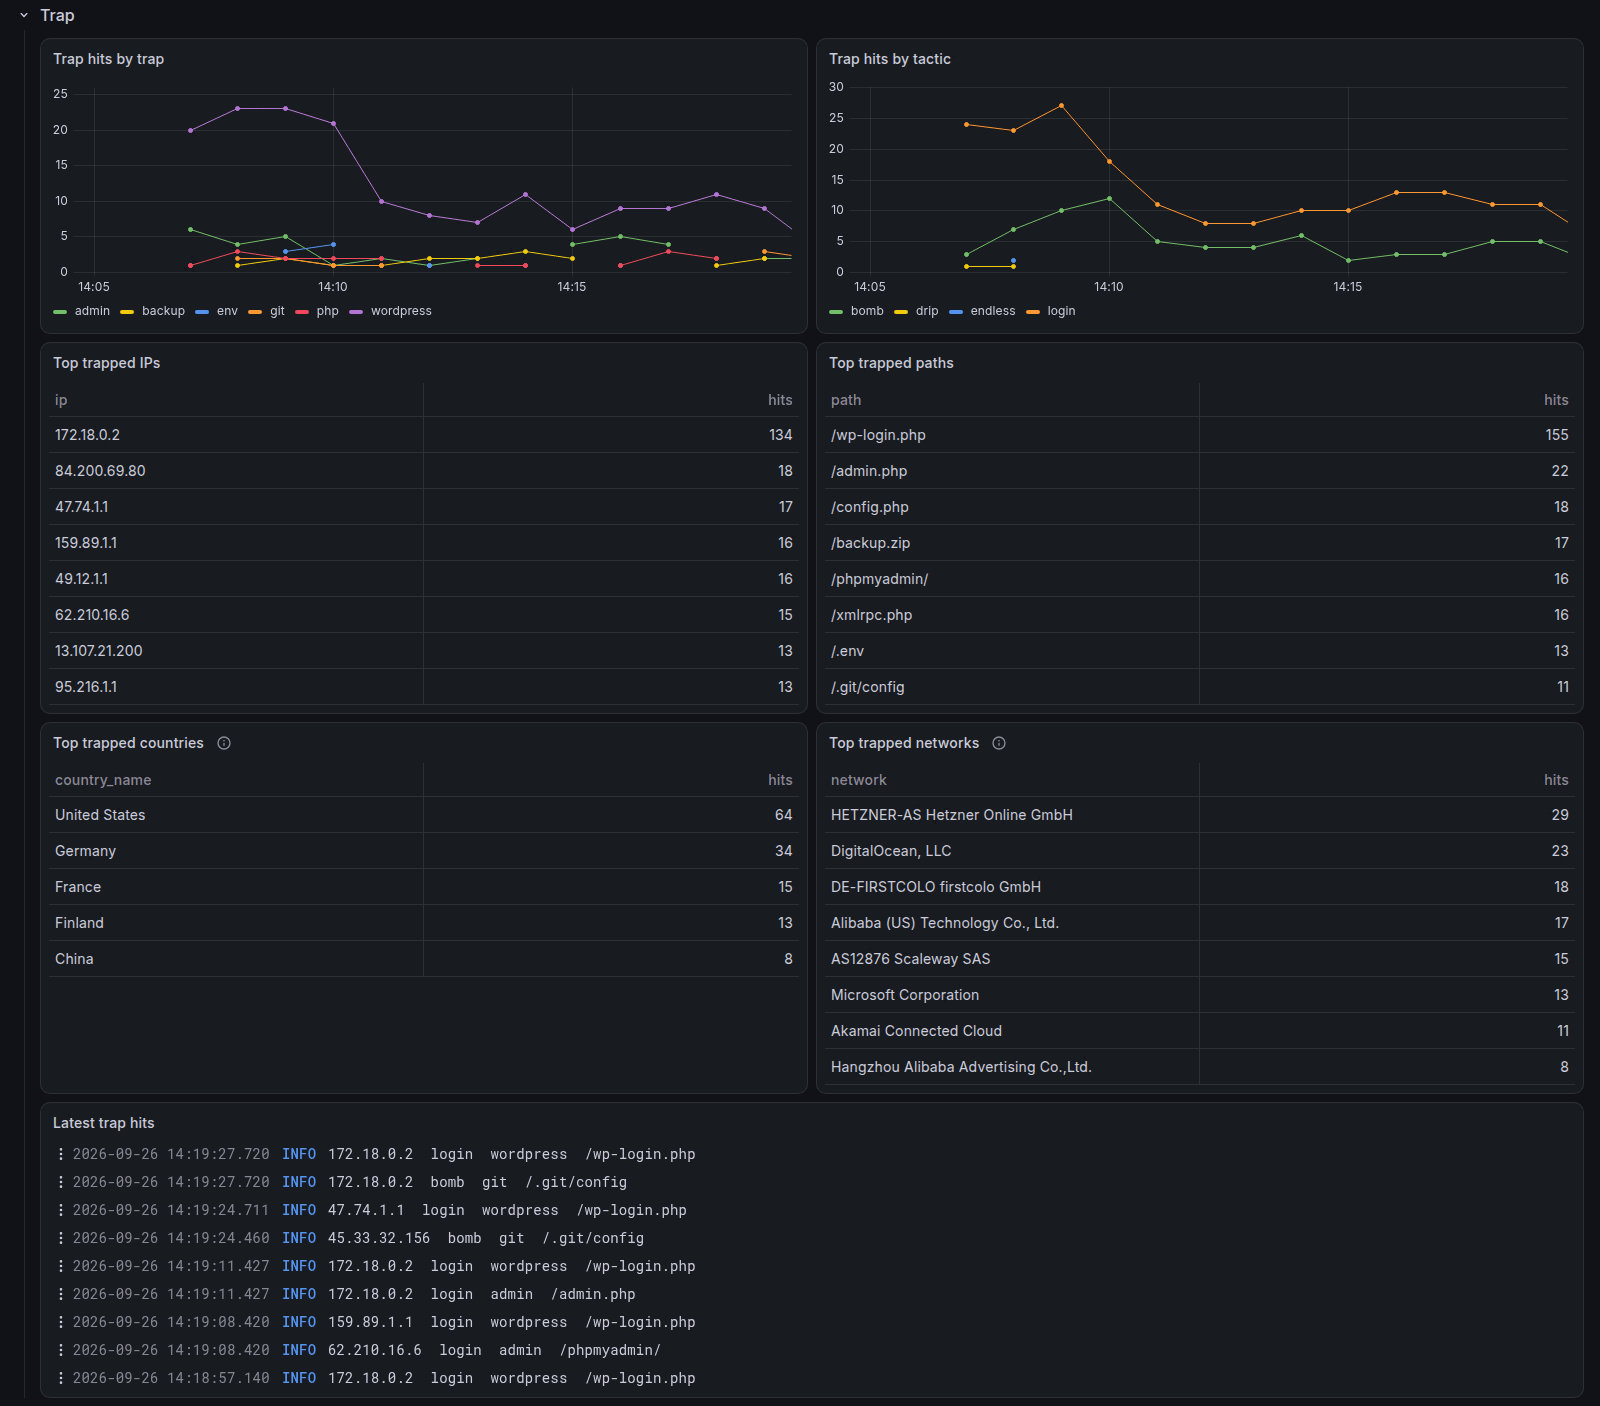
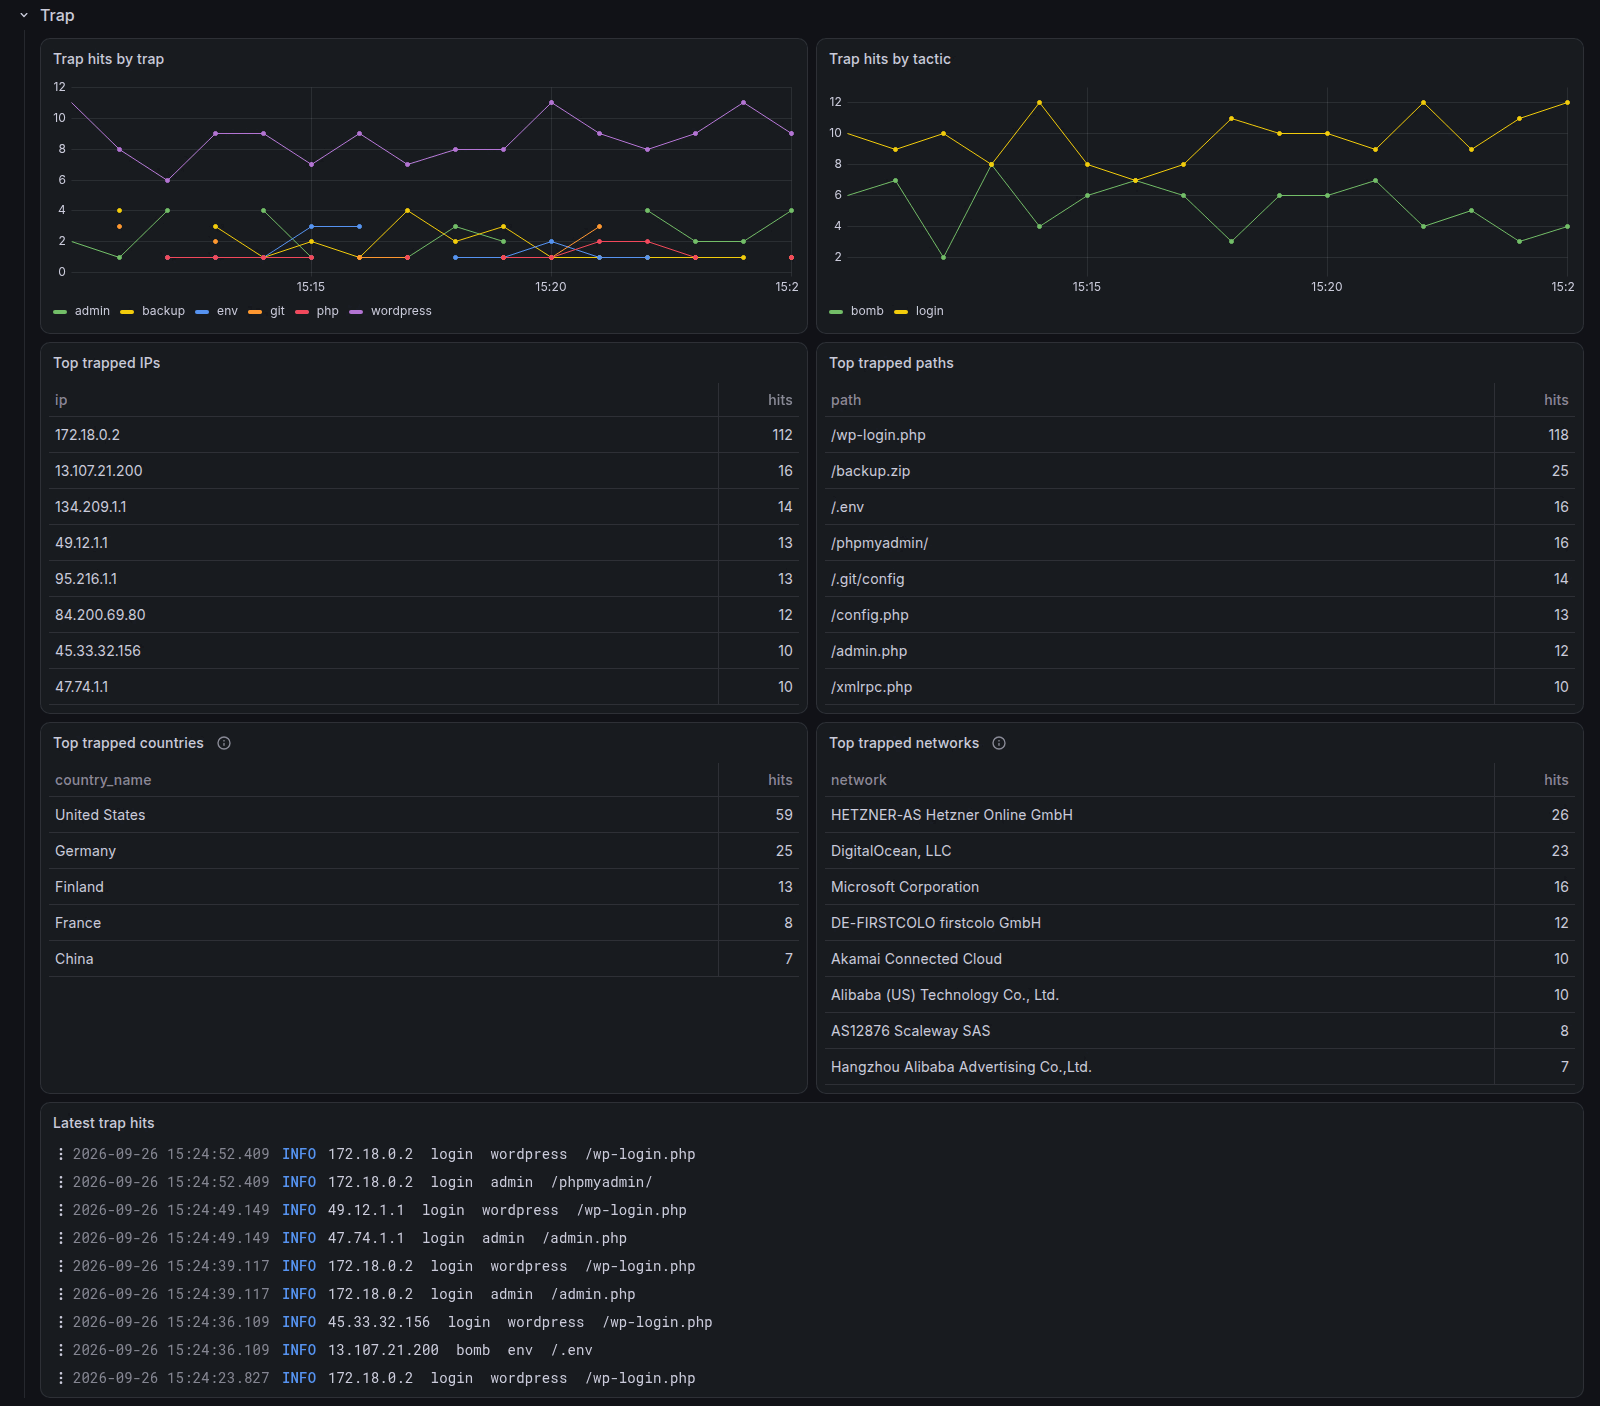
give long user agents, paths and referrers more room in the dashboard tables, and show the who and what section in the readme

diff --git a/observability/README.md b/observability/README.md
@@ -61,6 +61,8 @@ The dashboard in `dashboard.json` shows:
   time, and how the database grows
 - **Logs**: the access log, live
 
+![Top visitors, pages, user agents and referrers](images/who-and-what.png)
+
 ![Where visitors come from](images/where-from.png)
 
 ![What the trap caught](images/trap.png)
